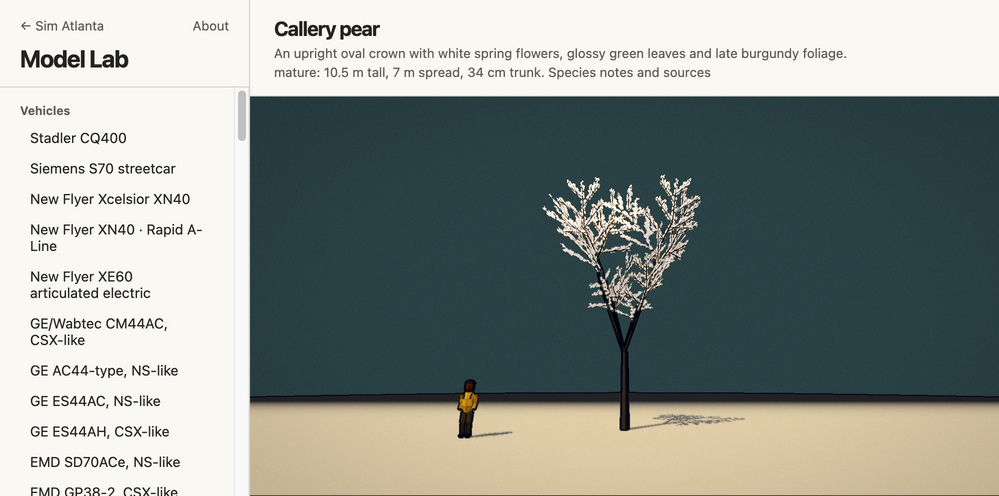
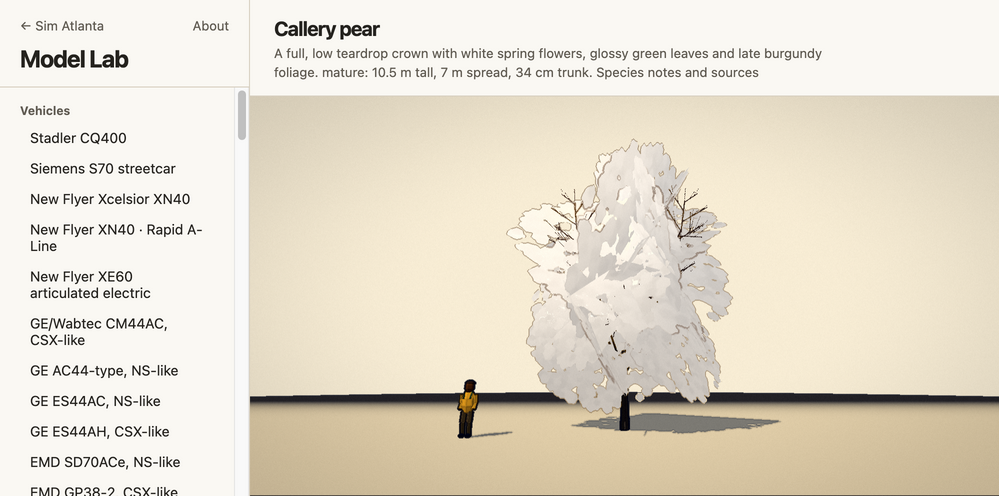
Fill out the Callery pear crown and March bloom

diff --git a/web/src/trees/foliage-kit.ts b/web/src/trees/foliage-kit.ts
@@ -179,7 +179,8 @@ export function leafAtlas(shape: LeafShape): THREE.Texture | null {
       const branchFans = shape === 'cordate' || shape === 'oval';
       g.fillStyle = `rgba(196,196,196,${CORE_ALPHA})`;
       g.fillRect(ox + 2, oy + 2, CELL - 4, (branchFans ? CELL * 0.54 : CELL) - 4);
-      if (branchFans) paintBranchFans(g, ox, oy);
+      if (branchFans) paintBranchFans(g, ox, oy, shape === 'cordate');
+      if (shape === 'oval') paintFlowerMass(g, ox + BLOOM_X, oy + FAN_TOP);
       continue;
     }
     // Cells 0–2 paint the same spray with coarse, medium and fine leaves (LEAF_SCALE).
@@ -468,7 +469,7 @@ vSpeckPos = transformed;
 /** Matched winter and spring tiles, with padding between the solid fill and both fan tiles. */
 const FAN_TILE = 108, FAN_TOP = 143, WOOD_X = 8, BLOOM_X = 140;
 
-function paintBranchFans(g: CanvasRenderingContext2D, ox: number, oy: number) {
+function paintBranchFans(g: CanvasRenderingContext2D, ox: number, oy: number, withFlowers: boolean) {
   const random = rng(483);
   const stroke = (x: number, y: number, bx: number, by: number, width: number, flowerSpacing: number) => {
     g.strokeStyle = '#e0d8cb';
@@ -487,7 +488,7 @@ function paintBranchFans(g: CanvasRenderingContext2D, ox: number, oy: number) {
         g.beginPath();
         g.ellipse(cx + (random() - 0.5) * 4.8, cy + (random() - 0.5) * 4.8,
           0.8 + random() * 1.35, 0.65 + random() * 1.3, random() * Math.PI, 0, Math.PI * 2);
-        g.fill();
+        if (withFlowers) g.fill();
       }
     }
   };
@@ -506,14 +507,60 @@ function paintBranchFans(g: CanvasRenderingContext2D, ox: number, oy: number) {
   }
 }
 
+/** Overlapping white corymbs in the pear's flower tile, with a loose edge and a dense centre. */
+function paintFlowerMass(g: CanvasRenderingContext2D, ox: number, oy: number) {
+  const random = rng(712);
+  for (let i = 0; i < 480; i++) {
+    const a = random() * Math.PI * 2;
+    const r = 48 * Math.sqrt(random());
+    const x = ox + 54 + Math.cos(a) * r;
+    const y = oy + 54 + Math.sin(a) * r * 0.93;
+    const turn = random() * Math.PI;
+    const petal = 1.15 + random() * 0.9;
+    g.fillStyle = i % 7 === 0 ? '#ddd' : i % 3 === 0 ? '#eee' : '#fff';
+    g.beginPath();
+    for (let k = 0; k < 5; k++) {
+      const angle = turn + k * Math.PI * 2 / 5;
+      const px = x + Math.cos(angle) * petal, py = y + Math.sin(angle) * petal;
+      g.moveTo(px + petal, py);
+      g.arc(px, py, petal, 0, Math.PI * 2);
+    }
+    g.fill();
+  }
+}
+
+const fanUV = (x: number) => [[0, 1], [1, 1], [1, 0], [0, 0]].map(([u, v]) =>
+  cellUV(SOLID, (x + u * FAN_TILE) / CELL, 1 - (FAN_TOP + v * FAN_TILE) / CELL));
+
+/** Dense bloom across the crown, with its own petal texture and no dependency on leaf-out. */
+export function crownBlossoms(b: FoliageBuilder, units: Unit[], seed: number) {
+  const random = rng(seed);
+  const up = new THREE.Vector3(0, 1, 0);
+  const uv = fanUV(BLOOM_X);
+  for (const [i, u] of units.entries()) {
+    const c = new THREE.Vector3(...u.c);
+    const normal = new THREE.Vector3(...u.n).setY((random() - 0.5) * 1.25);
+    if (normal.lengthSq() < 0.05) normal.set(Math.cos(u.tone * 8), 0.3, Math.sin(u.tone * 8));
+    normal.normalize();
+    const across = up.clone().cross(normal).normalize();
+    const rise = normal.clone().cross(across);
+    // Dense cards fall away before leaf-out. A small late cluster can linger on the wood.
+    const w = u.r * (i === 0 ? 0.46 : 1.5);
+    const p = [[-1, -1], [1, -1], [1, 1], [-1, 1]].map(([x, y]) =>
+      c.clone().addScaledVector(across, x * w).addScaledVector(rise, y * w * 0.99));
+    const order = 0.24 + random() * 0.74;
+    const opensAt = i === 0 ? 0.045 : order;
+    b.tri([p[0], p[1], p[2]], WHITE, u, [uv[0], uv[1], uv[2]], opensAt);
+    b.tri([p[0], p[2], p[3]], WHITE, u, [uv[0], uv[2], uv[3]], opensAt);
+  }
+}
+
 /** Cards rooted in the scaffold, with fine wood and seasonal blossoms sharing the same pattern. */
-export function branchBlooms(b: FoliageBuilder, segs: Seg[], d: Dims, seed: number) {
+export function branchBlooms(b: FoliageBuilder, segs: Seg[], d: Dims, seed: number, withFlowers: boolean) {
   const random = rng(seed);
   const scale = new THREE.Vector3(d.spreadM / 2, d.heightM, d.spreadM / 2);
   const up = new THREE.Vector3(0, 1, 0);
   const wood = new THREE.Color('#76635a');
-  const quadUV = (x: number) => [[0, 1], [1, 1], [1, 0], [0, 0]].map(([u, v]) =>
-    cellUV(SOLID, (x + u * FAN_TILE) / CELL, 1 - (FAN_TOP + v * FAN_TILE) / CELL));
   const walk = (seg: Seg, fraction: number, turn: number, length: number, rise: number) => {
     const a = new THREE.Vector3(...seg.a).multiply(scale), tip = new THREE.Vector3(...seg.b).multiply(scale);
     const root = a.clone().lerp(tip, fraction);
@@ -526,19 +573,21 @@ export function branchBlooms(b: FoliageBuilder, segs: Seg[], d: Dims, seed: numb
     // The visible twig network recedes as the canopy closes. Keep this separate from bloom order.
     const tone = { tone: 1, drop: 0.72 + 0.25 * ((fraction + turn + 4) % 1) };
     for (const [cell, color, order] of [[WOOD_X, wood, -1], [BLOOM_X, WHITE, 0.12 + random() * 0.83]] as const) {
+      if (!withFlowers && order > 0) continue;
       const foot = root.clone();
       // Lift the paired petals slightly to break coplanar overlap with the wood.
       if (order > 0) foot.addScaledVector(up, scale.y * 0.004);
       const end = foot.clone().add(shoot);
       const p = [foot.clone().sub(side), foot.clone().add(side), end.clone().add(side), end.clone().sub(side)];
-      const uv = quadUV(cell);
+      const uv = fanUV(cell);
       if (mirror) { [uv[0], uv[1]] = [uv[1], uv[0]]; [uv[2], uv[3]] = [uv[3], uv[2]]; }
       b.tri([p[0], p[1], p[2]], color, tone, [uv[0], uv[1], uv[2]], order);
       b.tri([p[0], p[2], p[3]], color, tone, [uv[0], uv[2], uv[3]], order);
     }
   };
-  for (let i = 1; i < segs.length; i += 2) {
+  for (let i = 1; i + 1 < segs.length; i += 2) {
     const inner = segs[i], outer = segs[i + 1];
+    if (inner.b !== outer.a) break;
     const turn = i % 4 === 1 ? -1 : 1;
     walk(inner, 0.64, turn * 0.98, 0.42, 0.19);
     walk(outer, 0.24, -turn * 0.65, 0.56, 0.32);

diff --git a/web/src/trees/callery-pear.ts b/web/src/trees/callery-pear.ts
@@ -5,13 +5,14 @@ import { broadleafSpecies, keyedCalendar, type Look } from './looks';
 import { polar, type Seg } from './species';
 
 const habit: Habit = {
-  trunkTop: 0.4, crownBase: 0.25, widest: 0.56,
+  trunkTop: 0.25, crownBase: 0.13, widest: 0.36,
   limbs: { high: 4, low: 3 }, limbAngle: 1.1, limbFrom: [0.24, 0.37], limbReach: 0.9,
   ragged: 0.065, bark: '#736c65', barkDark: '#605a54',
-  mass: { r: 0.7, low: -0.54, high: 0.88 },
+  mass: { r: 0.68, low: -0.76, high: 0.77 },
+  tiers: { high: [3, 4, 2], low: [3, 2, 1] },
   bySize: {
-    sapling: { crownBase: 0.34, widest: 0.52 },
-    specimen: { widest: 0.63, limbAngle: 0.86 },
+    sapling: { crownBase: 0.21, widest: 0.49 },
+    specimen: { widest: 0.38 },
   },
 };
 const palette = keyedCalendar([
@@ -20,8 +21,8 @@ const palette = keyedCalendar([
   { m: 3, d: 6, leaves: 0, a: '#83a561', b: '#98b56e', bloom: 1, label: 'white flower clusters on bare wood' },
   { m: 3, d: 18, leaves: 0, a: '#83a561', b: '#98b56e', bloom: 1, label: 'white flower clusters on bare wood' },
   { m: 3, d: 27, leaves: 0.38, a: '#83a561', b: '#98b56e', bloom: 0.12, label: 'last flowers and pale green leaves' },
-  { m: 4, d: 12, leaves: 1, a: '#567f53', b: '#6a925c', label: 'glossy green leaves' },
-  { m: 10, d: 20, leaves: 1, a: '#567f53', b: '#6a925c', label: 'glossy green leaves' },
+  { m: 4, d: 12, leaves: 1, a: '#598656', b: '#6e9a5f', label: 'glossy green leaves' },
+  { m: 10, d: 20, leaves: 1, a: '#598656', b: '#6e9a5f', label: 'glossy green leaves' },
   { m: 11, d: 11, leaves: 0.94, a: '#934532', b: '#bc6851', label: 'bronze red' },
   { m: 11, d: 25, leaves: 0.84, a: '#74384d', b: '#a65666', carpet: 0.3, label: 'late burgundy foliage' },
   { m: 12, d: 17, leaves: 0, a: '#605a54', b: '#736c65', carpet: 1, label: 'bare over fallen leaves' },
@@ -49,18 +50,23 @@ export const calleryPear: typeof base = {
   form(size, quality, dims) {
     const form = base.form(size, quality, dims);
     const trunk = form.segs[0];
-    trunk.b = [0, size === 'sapling' ? 0.31 : 0.27, 0];
+    trunk.b = [0, Math.min(0.25, 2 / dims.heightM), 0];
     trunk.r1 = trunk.r0 * 0.66;
     const count = quality === 'high' ? 4 : 3;
     const boughs: Seg[] = [];
     for (let i = 0; i < count; i++) {
       const angle = i * 2 * Math.PI / count + (i % 2 ? 0.18 : -0.06);
       const rise = [0.16, 0.02, 0.13, 0.07][i];
-      const elbow = polar(angle, 0.28, 0.44 + rise * 0.5);
-      const tip = polar(angle + 0.13, 0.65 - rise, 0.6 + rise);
+      const elbow = polar(angle, 0.35, 0.34 + rise * 0.45);
+      const tip = polar(angle + 0.13, 0.76 - rise, 0.59 + rise);
       const radius = trunk.r0 * (0.52 - i * 0.055);
       boughs.push({ a: trunk.b, b: elbow, r0: radius, r1: radius * 0.61, sides: 3, color: habit.barkDark });
       boughs.push({ a: elbow, b: tip, r0: radius * 0.61, r1: 0, sides: 3, color: habit.bark });
+    }
+    // Close-set leaders rise through the middle without pushing the outer crown up.
+    for (let i = 0; i < (quality === 'high' ? 2 : 1); i++) {
+      boughs.push({ a: trunk.b, b: polar(1.5 + i * 3.2, 0.33, 0.75 + i * 0.07),
+        r0: trunk.r0 * 0.34, r1: 0, sides: 3, color: habit.barkDark });
     }
     form.segs = [trunk, ...boughs];
     return form;
@@ -68,8 +74,8 @@ export const calleryPear: typeof base = {
 };
 export const calleryPearLook: Look = {
   species: calleryPear, habit, leaf: 'oval', palette,
-  bloomColour, bloomFill: 0.6, branchBloom: true,
-  options: [{ id: 'A', label: 'Oval crown', technique: 'cards', ink: 2, specks: 0.05,
-    units: { high: 21, low: 13 }, cover: 0.94,
-    note: 'Upright grey branches, white March flower clusters, glossy oval leaves and late burgundy foliage.' }],
+  bloomColour, bloomFill: 0.52, branchBloom: 'crown',
+  options: [{ id: 'A', label: 'Broad teardrop crown', technique: 'cards', ink: 2, specks: 0.05,
+    units: { high: 20, low: 13 }, cover: 1.12,
+    note: 'Low upright boughs carry a full crown of white March bloom, glossy oval leaves in July and late burgundy foliage.' }],
 };

diff --git a/web/src/trees/looks.ts b/web/src/trees/looks.ts
@@ -22,7 +22,7 @@ import * as THREE from 'three';
 import { mergeGeometries } from 'three/examples/jsm/utils/BufferGeometryUtils.js';
 import { inkFoliageMesh, type InkFoliageMode } from '../vignette/ink';
 import { broadleafForm, crownMasses, envelope, envelopeNormal, habitFor, ringAt, massClusters, type Habit, type Unit } from './broadleaf';
-import { FoliageBuilder, TIP_CAP, TIP_RANGE_M, blooms, branchBlooms, crownNormals, foliageDepth, leafAtlas, leafTips, lobes, needleStars, twoToneFoliage, unitCards, type LeafShape } from './foliage-kit';
+import { FoliageBuilder, TIP_CAP, TIP_RANGE_M, blooms, branchBlooms, crownBlossoms, crownNormals, foliageDepth, leafAtlas, leafTips, lobes, needleStars, twoToneFoliage, unitCards, type LeafShape } from './foliage-kit';
 import { skeletonGeometry, treeDims, type TreePlacement } from './render';
 import { doyOf, hash01, type Foliage, type SizeClass, type Species, type TreeQuality, type V3 } from './species';
 
@@ -84,8 +84,8 @@ export interface Look {
   /** Several bloom colours (crape myrtle): each tree takes one by its seed. */
   bloomColours?: string[];
   bloomSizeM?: number;
-  /** Twig fans and flowers follow the wood using paired tiles in the cordate or oval atlas. */
-  branchBloom?: boolean;
+  /** Fine winter twigs, with March flowers either on the same twigs or across the crown. */
+  branchBloom?: 'twigs' | 'crown';
   /** While in flower, up to this share of the leaf clusters turn wholly to the bloom colour
    *  (a crape myrtle's crown covered in trusses), at no triangle cost. */
   bloomWash?: number;
@@ -217,7 +217,11 @@ export function lookFoliage(look: Look, opt: LookOption, size: SizeClass, q: Tre
   const masses = crownMasses(look.habit, size, q, d, look.species.id.length);
   const clusters = lookClusters(look, opt, size, q, opt.units[q], seed);
   const b = new FoliageBuilder();
-  if (look.branchBloom) branchBlooms(b, look.species.form(size, q, d).segs, d, seed);
+  if (look.branchBloom) branchBlooms(b, look.species.form(size, q, d).segs, d, seed, look.branchBloom === 'twigs');
+  if (look.branchBloom === 'crown') {
+    const flowerClusters = lookClusters(look, opt, size, q, q === 'high' ? 14 : 11, seed + 7);
+    crownBlossoms(b, flowerClusters, seed + 8);
+  }
   if (opt.blooms && (look.bloomColour || look.bloomColours)) blooms(b, clusters, opt.blooms[q], seed + 9, look.bloomSizeM);
   if (opt.technique === 'lobes') lobes(b, clusters, seed, opt.facets, opt.squash);
   else if (opt.technique === 'stars') needleStars(b, clusters, seed);

diff --git a/web/src/models/main.ts b/web/src/models/main.ts
@@ -97,7 +97,7 @@ const SPECIES: Partial<Record<string, Species>> = Object.fromEntries(SPECIES_LIS
 const SPECIES_NOTES: Record<string, string> = {
   generic: 'City’s canopy today: every crown from the canopy height map gets this faceted clump tree, coloured by a random kind. It is the baseline, and its triangles per tree are the budget a species must stay within. ',
   'willow-oak': 'Downtown’s street oak: a straight trunk under a dense oval crown of fine, narrow leaves; yellow-brown to russet late in the fall. ',
-  'callery-pear': 'An upright oval crown with white spring flowers, glossy green leaves and late burgundy foliage. ',
+  'callery-pear': 'A full, low teardrop crown with white spring flowers, glossy green leaves and late burgundy foliage. ',
   'eastern-redbud': 'A small low-branching vase with heart-shaped leaves, rose-pink early spring and soft yellow fall. ',
   'white-oak': 'A broad irregular crown on pale spreading limbs, rounded-lobed blue-green leaves, wine-red to russet fall colour, and a few brown leaves held into winter. ',
   'water-oak': 'The yard and woods oak: a short trunk splitting into big ascending leaders under a wider, more open crown of small spatulate leaves; a yellow week in late fall, and some leaves held into winter. ',

diff --git a/web/src/trees/redbud.ts b/web/src/trees/redbud.ts
@@ -71,7 +71,7 @@ export const easternRedbud: typeof base = {
 };
 export const easternRedbudLook: Look = {
   species: easternRedbud, preferred: 'A', habit, leaf: 'cordate', palette, lowLift: -0.015,
-  bloomColour: '#e46cbb', bloomFill: 0.68, branchBloom: true,
+  bloomColour: '#e46cbb', bloomFill: 0.68, branchBloom: 'twigs',
   options: [{ id: 'A', label: 'Heart-leaf vase', technique: 'cards', ink: 2,
     units: { high: 21, low: 13 }, cover: 0.8,
     note: 'Magenta flower clusters trace bare twigs before the heart-shaped leaf cards open.' }],

diff --git a/docs/tree-species.md b/docs/tree-species.md
@@ -926,10 +926,10 @@ Mature-tree cost is 193 / 138 triangles at high / low detail, including 56 / 44 
 
 ### Callery pear
 
-`web/src/trees/callery-pear.ts`, *Pyrus calleryana*. The first Model Lab study depicts the planted Bradford form. A has a dense oval crown, close ascending grey boughs, small white flower clusters, and glossy oval leaf cards. The existing oval texture carries the same paired twig and flower pattern as the redbud. The model reads narrower than the open-grown photo reference. Twig planes simplify finer branching. Small fruit and broken limbs are omitted. [Seasonal and distance sheet](log/ui/tree-species/options-callery-pear.jpg).
+`web/src/trees/callery-pear.ts`, *Pyrus calleryana*. The first Model Lab study depicts the planted Bradford form. A has a low, full teardrop crown with crowded upright boughs. Larger sizes fork about 2 m up. Spring petal cards pack the crown with white corymbs until leaf-out. Summer uses glossy oval leaf cards on the same envelope. A few branch tips show through peak bloom, and twig planes simplify the winter branching. Small fruit and broken limbs are omitted. [Seasonal and distance sheet](log/ui/tree-species/options-callery-pear.jpg).
 
-[NC State Extension](https://content.ces.ncsu.edu/callery-pear-bradford-pear-other-varieties-and-their-invasive-offspring) documents the Bradford crown, acute branch unions and early white flowers. [NC State Plant Toolbox](https://plants.ces.ncsu.edu/plants/pyrus-calleryana/) gives a 30–50 ft height and 20–35 ft spread for Callery pear, glossy ovate leaves and reddish-purple to bronze-red fall colour. The reference is Cathy DeWitt’s March 14 photograph from Warren County, North Carolina (CC BY 4.0). The sheet uses a muted backdrop for the bloom and leaf-out renders to show the pale petals. There is no matched night photograph.
+[NC State Extension](https://content.ces.ncsu.edu/callery-pear-bradford-pear-other-varieties-and-their-invasive-offspring) documents the Bradford crown, acute branch unions and early white flowers. [NC State Plant Toolbox](https://plants.ces.ncsu.edu/plants/pyrus-calleryana/) gives a 30–50 ft height and 20–35 ft spread for Callery pear, glossy ovate leaves and reddish-purple to bronze-red fall colour. The reference is Cathy DeWitt’s March 14 photograph from Warren County, North Carolina (CC BY 4.0). The sheet uses the ordinary Lab backdrop to show how the bloom reads in daylight at eye level, 100 m and 300 m. There is no matched night photograph.
 
 Nominal sapling, young, mature and specimen dimensions are 3 × 1.65 m, 6 × 3.6 m, 10.5 × 7 m and 14 × 10 m. The first two sizes and all callipers are estimated. The March bloom, spring leaf-out and late autumn colour dates are inferred for Atlanta, with four days of variation on either side. The inventory ranking is evidence of existing trees. This Lab study does not add any plantings to City.
 
-The mature model uses 193 / 138 triangles at high / low detail, three instanced draws including leaf litter, and no new texture allocation. July Front luminance is 0.252 high and 0.254 low against the generic canopy’s 0.248. Web rebuild only.
+The mature model uses 195 / 141 triangles at high / low detail, three instanced draws including leaf litter, and no new texture allocation. Finer twig geometry and the petal cards share the existing oval atlas. Web rebuild only.

diff --git a/docs/build-log.md b/docs/build-log.md
@@ -2988,3 +2988,7 @@ The photograph of 9001 shows a rounded purple roofline above the windshield. The
 ### 2026-11-23 — Callery pear starts with a white March bloom
 
 The first Model Lab study follows the oval Bradford form. Four sizes share an upright grey skeleton, white flowers on fine twig cards, glossy green A cards and late burgundy fall foliage. The first test with detached flower chips left white flecks hanging above bare wood. Reusing the paired redbud twig cards put every cluster back on a branch, using space in the existing oval atlas. At 193 / 138 triangles the mature tree still fits both budgets. [Seasonal and distance sheet](log/ui/tree-species/options-callery-pear.jpg). Lab study only. Web rebuild required for release.
+
+### 2026-11-23 — Callery pear fills out below the fork
+
+The first pear looked like white twigs above a long pole. The larger trees now fork at about 2 m, and a broad teardrop holds both the summer leaf cards and the March flower mass. Separate petal cards made the biggest difference at distance. The 300 m high-detail crown mask grew from 181 to 1,638 pixels, and the white mass reads on the ordinary Lab backdrop. A small late cluster can remain at leaf-out after the large flower cards have fallen. The mature tree costs 195 / 141 triangles, and July Front luminance is 0.242 / 0.250 against the generic canopy’s 0.248. [Side-by-side sheet with distance, winter and summer](log/ui/tree-species/options-callery-pear.jpg).
